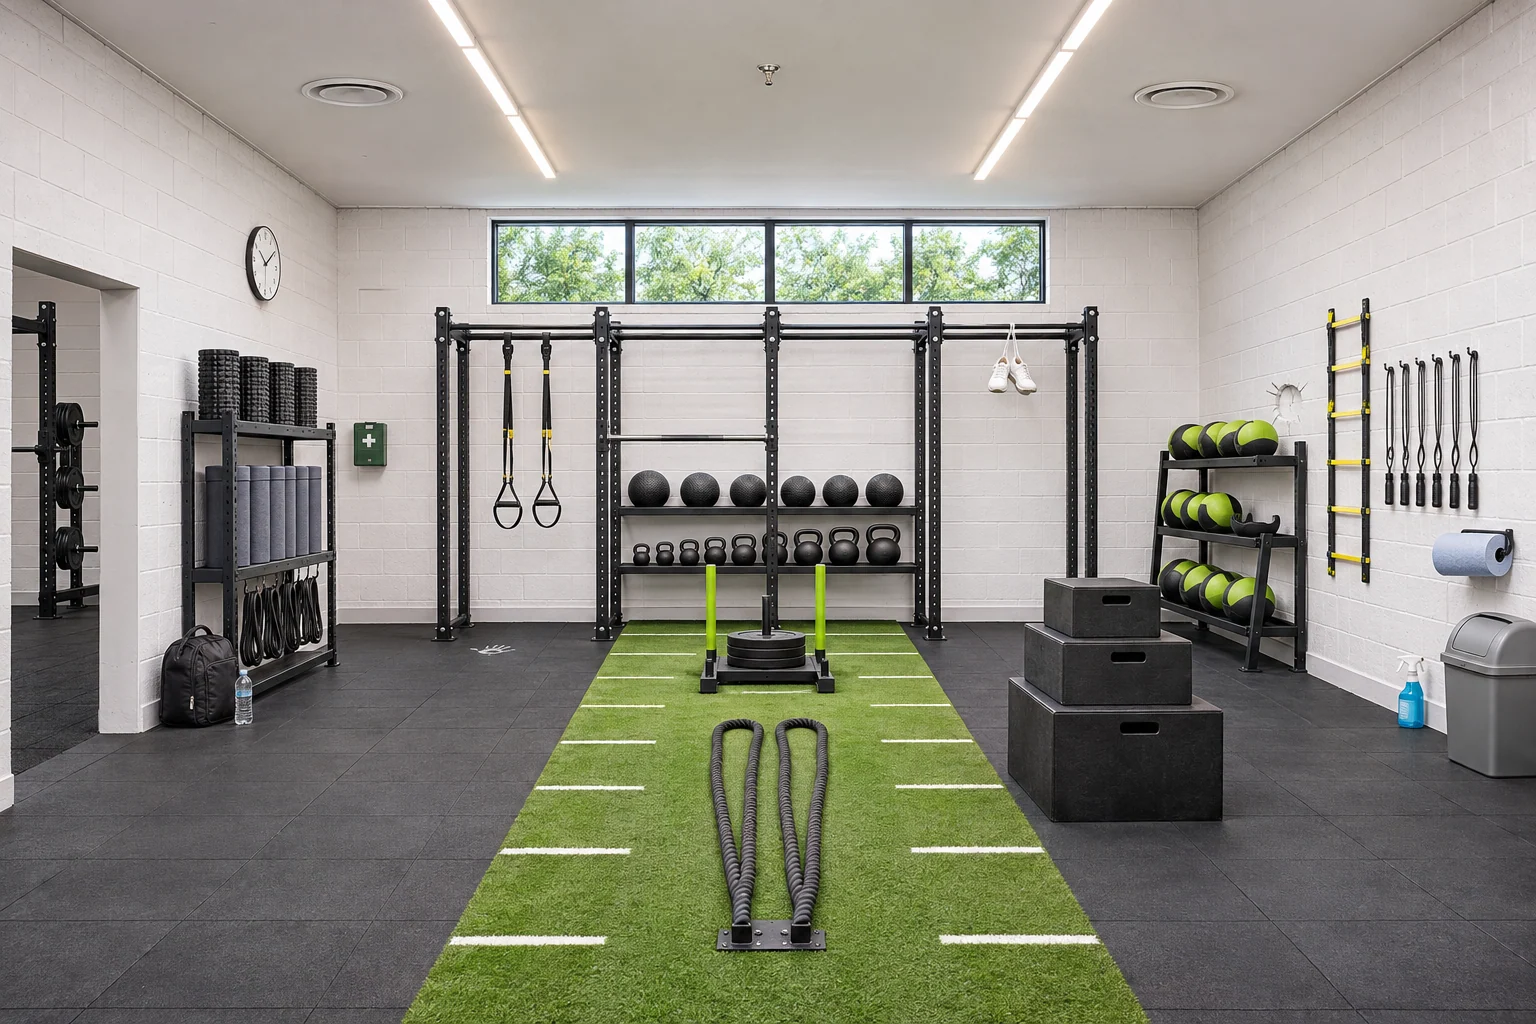
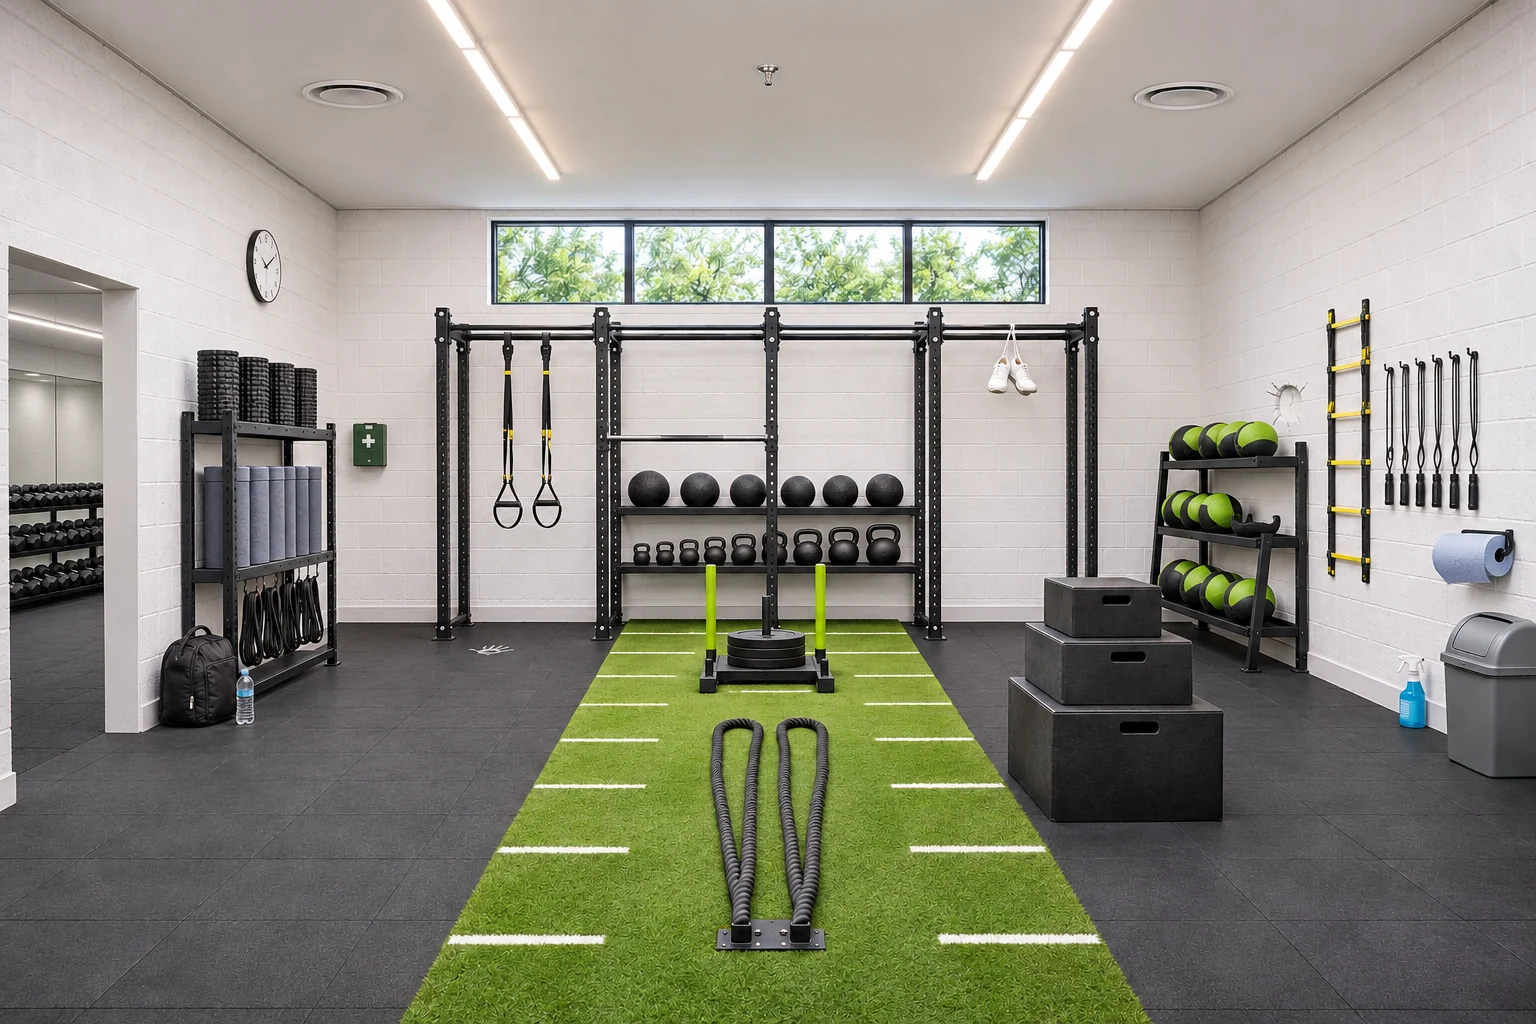
Align what shows through the gym doorways, fix the handprint angle, add a dance pole

diff --git a/gym.html b/gym.html
@@ -451,7 +451,7 @@ body.presenting{overflow:hidden}
 <script src="https://cdn.jsdelivr.net/npm/motion@14.9.0/dist/motion.js" integrity="sha384-mzhnnVPTOvuHjQX0cuFH5wg2l5YcbPcpPqOoHFowMkg6VYQBWwZKGH+EAVZsi6zJ" crossorigin="anonymous"></script>
 <script>
 /* One room or the whole flat: ROOMS is the only difference between them. */
-var ROOMS=[{"title": "The cardio floor", "alt": "The cardio floor of a modern gym in England", "key": "gym_vocab_cardio_v1", "img": "images/gym/the-cardio-floor.webp", "at": [0.5, 0.2], "words": [{"x": 58.6, "y": 46.9, "w": "treadmill"}, {"x": 40.4, "y": 53.2, "w": "running belt"}, {"x": 39.8, "y": 39.6, "w": "console"}, {"x": 36.8, "y": 43.0, "w": "handrail"}, {"x": 44.5, "y": 54.7, "w": "exercise bike"}, {"x": 44.5, "y": 48.8, "w": "handlebars"}, {"x": 46.4, "y": 63.0, "w": "pedal"}, {"x": 50.8, "y": 70.3, "w": "rowing machine"}, {"x": 50.0, "y": 74.4, "w": "seat"}, {"x": 51.6, "y": 68.4, "w": "footplate"}, {"x": 49.6, "y": 67.2, "w": "handle"}, {"x": 50.8, "y": 77.3, "w": "slide rail"}, {"x": 52.1, "y": 63.5, "w": "flywheel"}, {"x": 81.4, "y": 45.9, "w": "cross trainer"}, {"x": 79.1, "y": 55.9, "w": "foot platform"}, {"x": 56.0, "y": 27.1, "w": "screen"}, {"x": 49.6, "y": 26.9, "w": "wall clock"}, {"x": 45.6, "y": 36.1, "w": "window"}, {"x": 3.9, "y": 54.7, "w": "water station", "pos": "right"}, {"x": 10.4, "y": 58.6, "w": "bin"}, {"x": 10.4, "y": 38.1, "w": "towel rail"}, {"x": 11.2, "y": 42.2, "w": "towel"}, {"x": 17.1, "y": 43.5, "w": "hand sanitiser"}, {"x": 18.6, "y": 38.1, "w": "paper towel"}, {"x": 21.9, "y": 38.6, "w": "first aid box"}, {"x": 9.2, "y": 64.0, "w": "spray bottle"}, {"x": 11.7, "y": 65.2, "w": "cloth"}, {"x": 44.9, "y": 50.8, "w": "water bottle"}, {"x": 19.5, "y": 11.7, "w": "strip light"}, {"x": 33.9, "y": 4.4, "w": "air vent", "pos": "below"}, {"x": 49.8, "y": 4.4, "w": "sprinkler head", "pos": "below"}, {"x": 73.6, "y": 4.4, "w": "smoke detector", "pos": "below"}, {"x": 68.4, "y": 78.1, "w": "rubber floor tile"}, {"x": 96.4, "y": 43.9, "w": "mirror", "pos": "left"}, {"x": 69.7, "y": 38.3, "w": "bin bag"}, {"x": 69.8, "y": 40.0, "w": "notice"}, {"x": 28.6, "y": 80.1, "w": "sock"}]}, {"title": "The weights room", "alt": "The weights room of a modern gym in England", "key": "gym_vocab_weights_v1", "img": "images/gym/the-weights-room.webp", "at": [0.17, 0.8], "words": [{"x": 6.5, "y": 39.1, "w": "mirrored wall", "pos": "right"}, {"x": 41.7, "y": 48.0, "w": "barbell"}, {"x": 27.3, "y": 47.9, "w": "bumper plate"}, {"x": 29.4, "y": 54.7, "w": "power rack"}, {"x": 36.5, "y": 30.8, "w": "pull-up bar"}, {"x": 49.5, "y": 57.6, "w": "dumbbell rack"}, {"x": 40.4, "y": 52.7, "w": "dumbbell"}, {"x": 45.6, "y": 39.1, "w": "kettlebell"}, {"x": 57.3, "y": 41.8, "w": "shelf"}, {"x": 28.0, "y": 79.3, "w": "flat bench"}, {"x": 69.7, "y": 78.1, "w": "adjustable bench"}, {"x": 45.6, "y": 68.4, "w": "lifting platform"}, {"x": 28.1, "y": 75.7, "w": "lifting belt"}, {"x": 24.4, "y": 55.2, "w": "chalk bowl"}, {"x": 2.9, "y": 83.0, "w": "foam roller", "pos": "right"}, {"x": 74.9, "y": 54.7, "w": "plate tree"}, {"x": 73.6, "y": 45.9, "w": "weight plate"}, {"x": 84.6, "y": 50.8, "w": "cable machine"}, {"x": 81.4, "y": 46.9, "w": "handle"}, {"x": 84.1, "y": 58.6, "w": "weight stack"}, {"x": 15.1, "y": 58.6, "w": "barbell rack"}, {"x": 95.7, "y": 46.9, "w": "paper towel", "pos": "left"}, {"x": 91.5, "y": 70.3, "w": "spray bottle"}, {"x": 95.7, "y": 68.4, "w": "bin", "pos": "left"}, {"x": 79.4, "y": 64.5, "w": "shaker bottle"}, {"x": 90.8, "y": 43.9, "w": "doorway"}, {"x": 25.3, "y": 27.3, "w": "wall clock"}, {"x": 71.0, "y": 24.4, "w": "window"}, {"x": 26.0, "y": 7.8, "w": "strip light", "pos": "below"}, {"x": 35.5, "y": 9.8, "w": "air vent"}, {"x": 50.1, "y": 2.4, "w": "sprinkler head", "pos": "below"}, {"x": 13.0, "y": 92.8, "w": "rubber floor tile", "pos": "above"}]}, {"title": "The functional area", "alt": "The functional training area of a modern gym in England", "key": "gym_vocab_functional_v1", "img": "images/gym/the-functional-area.webp", "at": [0.5, 0.8], "words": [{"x": 45.6, "y": 34.2, "w": "rig"}, {"x": 56.6, "y": 31.1, "w": "pull-up bar"}, {"x": 33.9, "y": 42.0, "w": "suspension straps"}, {"x": 45.6, "y": 42.2, "w": "barbell"}, {"x": 42.3, "y": 47.9, "w": "slam ball"}, {"x": 45.6, "y": 53.2, "w": "kettlebell"}, {"x": 57.3, "y": 56.4, "w": "storage shelf"}, {"x": 49.8, "y": 64.0, "w": "weight sled"}, {"x": 49.5, "y": 78.1, "w": "battle rope"}, {"x": 49.8, "y": 91.8, "w": "floor anchor", "pos": "above"}, {"x": 39.1, "y": 85.9, "w": "artificial turf"}, {"x": 73.6, "y": 68.4, "w": "plyometric box"}, {"x": 79.1, "y": 52.7, "w": "medicine ball rack"}, {"x": 78.8, "y": 43.0, "w": "medicine ball"}, {"x": 87.6, "y": 43.9, "w": "agility ladder"}, {"x": 92.8, "y": 42.0, "w": "skipping rope", "pos": "left"}, {"x": 96.4, "y": 53.7, "w": "paper towel", "pos": "left"}, {"x": 91.8, "y": 67.4, "w": "spray bottle"}, {"x": 96.4, "y": 69.3, "w": "bin", "pos": "left"}, {"x": 16.8, "y": 37.3, "w": "foam roller"}, {"x": 17.3, "y": 48.8, "w": "exercise mat"}, {"x": 17.4, "y": 59.1, "w": "resistance band"}, {"x": 13.0, "y": 54.7, "w": "storage rack"}, {"x": 12.7, "y": 67.6, "w": "gym bag"}, {"x": 15.7, "y": 67.6, "w": "water bottle"}, {"x": 24.4, "y": 42.5, "w": "first aid box"}, {"x": 17.3, "y": 25.4, "w": "wall clock"}, {"x": 50.1, "y": 24.4, "w": "window"}, {"x": 3.9, "y": 43.9, "w": "doorway", "pos": "right"}, {"x": 33.9, "y": 9.8, "w": "strip light"}, {"x": 22.5, "y": 8.8, "w": "air vent"}, {"x": 49.8, "y": 6.3, "w": "sprinkler head", "pos": "below"}, {"x": 19.5, "y": 83.0, "w": "rubber floor tile"}, {"x": 65.8, "y": 36.6, "w": "trainers"}]}, {"title": "The studio", "alt": "The studio of a modern gym in England", "key": "gym_vocab_studio_v1", "img": "images/gym/the-studio.webp", "at": [0.84, 0.8], "words": [{"x": 7.8, "y": 39.1, "w": "mirrored wall", "pos": "right"}, {"x": 35.8, "y": 52.7, "w": "shelving unit"}, {"x": 24.1, "y": 52.7, "w": "foam roller"}, {"x": 31.2, "y": 47.9, "w": "yoga block"}, {"x": 38.5, "y": 46.9, "w": "bolster"}, {"x": 46.5, "y": 46.9, "w": "resistance band"}, {"x": 58.6, "y": 45.9, "w": "gym ball"}, {"x": 58.6, "y": 63.0, "w": "ball rack"}, {"x": 65.8, "y": 43.9, "w": "window"}, {"x": 65.8, "y": 35.2, "w": "roller blind"}, {"x": 51.8, "y": 31.7, "w": "wall clock"}, {"x": 77.1, "y": 29.8, "w": "speaker"}, {"x": 79.8, "y": 48.8, "w": "door"}, {"x": 78.8, "y": 65.9, "w": "cork block"}, {"x": 91.8, "y": 37.6, "w": "coat hook"}, {"x": 90.5, "y": 43.9, "w": "towel"}, {"x": 97.3, "y": 44.4, "w": "first aid box", "pos": "left"}, {"x": 91.1, "y": 58.6, "w": "bench"}, {"x": 88.5, "y": 72.8, "w": "plimsolls"}, {"x": 97.7, "y": 69.3, "w": "bin", "pos": "left"}, {"x": 28.0, "y": 78.1, "w": "exercise mat"}, {"x": 39.4, "y": 75.7, "w": "folded towel"}, {"x": 48.5, "y": 74.4, "w": "water bottle"}, {"x": 33.9, "y": 3.9, "w": "light panel", "pos": "below"}, {"x": 36.1, "y": 12.2, "w": "air vent"}, {"x": 50.5, "y": 11.2, "w": "smoke detector"}, {"x": 52.1, "y": 87.9, "w": "wooden floor", "pos": "above"}]}];
+var ROOMS=[{"title": "The cardio floor", "alt": "The cardio floor of a modern gym in England", "key": "gym_vocab_cardio_v1", "img": "images/gym/the-cardio-floor.webp", "at": [0.5, 0.2], "words": [{"x": 58.6, "y": 46.9, "w": "treadmill"}, {"x": 40.4, "y": 53.2, "w": "running belt"}, {"x": 39.8, "y": 39.6, "w": "console"}, {"x": 36.8, "y": 43.0, "w": "handrail"}, {"x": 44.5, "y": 54.7, "w": "exercise bike"}, {"x": 44.5, "y": 48.8, "w": "handlebars"}, {"x": 46.4, "y": 63.0, "w": "pedal"}, {"x": 50.8, "y": 70.3, "w": "rowing machine"}, {"x": 50.0, "y": 74.4, "w": "seat"}, {"x": 51.6, "y": 68.4, "w": "footplate"}, {"x": 49.6, "y": 67.2, "w": "handle"}, {"x": 50.8, "y": 77.3, "w": "slide rail"}, {"x": 52.1, "y": 63.5, "w": "flywheel"}, {"x": 81.4, "y": 45.9, "w": "cross trainer"}, {"x": 79.1, "y": 55.9, "w": "foot platform"}, {"x": 56.0, "y": 27.1, "w": "screen"}, {"x": 49.6, "y": 26.9, "w": "wall clock"}, {"x": 45.6, "y": 36.1, "w": "window"}, {"x": 3.9, "y": 54.7, "w": "water station", "pos": "right"}, {"x": 10.4, "y": 58.6, "w": "bin"}, {"x": 10.4, "y": 38.1, "w": "towel rail"}, {"x": 11.2, "y": 42.2, "w": "towel"}, {"x": 17.1, "y": 43.5, "w": "hand sanitiser"}, {"x": 18.6, "y": 38.1, "w": "paper towel"}, {"x": 21.9, "y": 38.6, "w": "first aid box"}, {"x": 9.2, "y": 64.0, "w": "spray bottle"}, {"x": 11.7, "y": 65.2, "w": "cloth"}, {"x": 44.9, "y": 50.8, "w": "water bottle"}, {"x": 19.5, "y": 11.7, "w": "strip light"}, {"x": 33.9, "y": 4.4, "w": "air vent", "pos": "below"}, {"x": 49.8, "y": 4.4, "w": "sprinkler head", "pos": "below"}, {"x": 73.6, "y": 4.4, "w": "smoke detector", "pos": "below"}, {"x": 68.4, "y": 78.1, "w": "rubber floor tile"}, {"x": 96.4, "y": 43.9, "w": "mirror", "pos": "left"}, {"x": 69.7, "y": 38.3, "w": "bin bag"}, {"x": 69.8, "y": 40.0, "w": "notice"}, {"x": 28.6, "y": 80.1, "w": "sock"}]}, {"title": "The weights room", "alt": "The weights room of a modern gym in England", "key": "gym_vocab_weights_v1", "img": "images/gym/the-weights-room.webp", "at": [0.17, 0.8], "words": [{"x": 6.5, "y": 39.1, "w": "mirrored wall", "pos": "right"}, {"x": 41.7, "y": 48.0, "w": "barbell"}, {"x": 27.3, "y": 47.9, "w": "bumper plate"}, {"x": 29.4, "y": 54.7, "w": "power rack"}, {"x": 36.5, "y": 30.8, "w": "pull-up bar"}, {"x": 49.5, "y": 57.6, "w": "dumbbell rack"}, {"x": 40.4, "y": 52.7, "w": "dumbbell"}, {"x": 45.6, "y": 39.1, "w": "kettlebell"}, {"x": 57.3, "y": 41.8, "w": "shelf"}, {"x": 28.0, "y": 79.3, "w": "flat bench"}, {"x": 69.7, "y": 78.1, "w": "adjustable bench"}, {"x": 45.6, "y": 68.4, "w": "lifting platform"}, {"x": 28.1, "y": 75.7, "w": "lifting belt"}, {"x": 24.4, "y": 55.2, "w": "chalk bowl"}, {"x": 2.9, "y": 83.0, "w": "foam roller", "pos": "right"}, {"x": 74.9, "y": 54.7, "w": "plate tree"}, {"x": 73.6, "y": 45.9, "w": "weight plate"}, {"x": 84.6, "y": 50.8, "w": "cable machine"}, {"x": 81.4, "y": 46.9, "w": "handle"}, {"x": 84.1, "y": 58.6, "w": "weight stack"}, {"x": 15.1, "y": 58.6, "w": "barbell rack"}, {"x": 95.7, "y": 46.9, "w": "paper towel", "pos": "left"}, {"x": 91.5, "y": 70.3, "w": "spray bottle"}, {"x": 95.7, "y": 68.4, "w": "bin", "pos": "left"}, {"x": 79.4, "y": 64.5, "w": "shaker bottle"}, {"x": 90.8, "y": 43.9, "w": "doorway"}, {"x": 25.3, "y": 27.3, "w": "wall clock"}, {"x": 71.0, "y": 24.4, "w": "window"}, {"x": 26.0, "y": 7.8, "w": "strip light", "pos": "below"}, {"x": 35.5, "y": 9.8, "w": "air vent"}, {"x": 50.1, "y": 2.4, "w": "sprinkler head", "pos": "below"}, {"x": 13.0, "y": 92.8, "w": "rubber floor tile", "pos": "above"}]}, {"title": "The functional area", "alt": "The functional training area of a modern gym in England", "key": "gym_vocab_functional_v1", "img": "images/gym/the-functional-area.webp", "at": [0.5, 0.8], "words": [{"x": 45.6, "y": 34.2, "w": "rig"}, {"x": 56.6, "y": 31.1, "w": "pull-up bar"}, {"x": 33.9, "y": 42.0, "w": "suspension straps"}, {"x": 45.6, "y": 42.2, "w": "barbell"}, {"x": 42.3, "y": 47.9, "w": "slam ball"}, {"x": 45.6, "y": 53.2, "w": "kettlebell"}, {"x": 57.3, "y": 56.4, "w": "storage shelf"}, {"x": 49.8, "y": 64.0, "w": "weight sled"}, {"x": 49.5, "y": 78.1, "w": "battle rope"}, {"x": 49.8, "y": 91.8, "w": "floor anchor", "pos": "above"}, {"x": 39.1, "y": 85.9, "w": "artificial turf"}, {"x": 73.6, "y": 68.4, "w": "plyometric box"}, {"x": 79.1, "y": 52.7, "w": "medicine ball rack"}, {"x": 78.8, "y": 43.0, "w": "medicine ball"}, {"x": 87.6, "y": 43.9, "w": "agility ladder"}, {"x": 92.8, "y": 42.0, "w": "skipping rope", "pos": "left"}, {"x": 96.4, "y": 53.7, "w": "paper towel", "pos": "left"}, {"x": 91.8, "y": 67.4, "w": "spray bottle"}, {"x": 96.4, "y": 69.3, "w": "bin", "pos": "left"}, {"x": 16.8, "y": 37.3, "w": "foam roller"}, {"x": 17.3, "y": 48.8, "w": "exercise mat"}, {"x": 17.4, "y": 59.1, "w": "resistance band"}, {"x": 13.0, "y": 54.7, "w": "storage rack"}, {"x": 12.7, "y": 67.6, "w": "gym bag"}, {"x": 15.7, "y": 67.6, "w": "water bottle"}, {"x": 24.4, "y": 42.5, "w": "first aid box"}, {"x": 17.3, "y": 25.4, "w": "wall clock"}, {"x": 50.1, "y": 24.4, "w": "window"}, {"x": 3.9, "y": 43.9, "w": "doorway", "pos": "right"}, {"x": 33.9, "y": 9.8, "w": "strip light"}, {"x": 22.5, "y": 8.8, "w": "air vent"}, {"x": 49.8, "y": 6.3, "w": "sprinkler head", "pos": "below"}, {"x": 19.5, "y": 83.0, "w": "rubber floor tile"}, {"x": 65.8, "y": 36.6, "w": "trainers"}]}, {"title": "The studio", "alt": "The studio of a modern gym in England", "key": "gym_vocab_studio_v1", "img": "images/gym/the-studio.webp", "at": [0.84, 0.8], "words": [{"x": 7.8, "y": 39.1, "w": "mirrored wall", "pos": "right"}, {"x": 35.8, "y": 52.7, "w": "shelving unit"}, {"x": 24.1, "y": 52.7, "w": "foam roller"}, {"x": 31.2, "y": 47.9, "w": "yoga block"}, {"x": 38.5, "y": 46.9, "w": "bolster"}, {"x": 46.5, "y": 46.9, "w": "resistance band"}, {"x": 58.6, "y": 45.9, "w": "gym ball"}, {"x": 58.6, "y": 63.0, "w": "ball rack"}, {"x": 70.8, "y": 45.6, "w": "dance pole"}, {"x": 65.8, "y": 43.9, "w": "window"}, {"x": 65.8, "y": 35.2, "w": "roller blind"}, {"x": 51.8, "y": 31.7, "w": "wall clock"}, {"x": 77.1, "y": 29.8, "w": "speaker"}, {"x": 79.8, "y": 48.8, "w": "door"}, {"x": 78.8, "y": 65.9, "w": "cork block"}, {"x": 91.8, "y": 37.6, "w": "coat hook"}, {"x": 90.5, "y": 43.9, "w": "towel"}, {"x": 97.3, "y": 44.4, "w": "first aid box", "pos": "left"}, {"x": 91.1, "y": 58.6, "w": "bench"}, {"x": 88.5, "y": 72.8, "w": "plimsolls"}, {"x": 97.7, "y": 69.3, "w": "bin", "pos": "left"}, {"x": 28.0, "y": 78.1, "w": "exercise mat"}, {"x": 39.4, "y": 75.7, "w": "folded towel"}, {"x": 48.5, "y": 74.4, "w": "water bottle"}, {"x": 33.9, "y": 3.9, "w": "light panel", "pos": "below"}, {"x": 36.1, "y": 12.2, "w": "air vent"}, {"x": 50.5, "y": 11.2, "w": "smoke detector"}, {"x": 52.1, "y": 87.9, "w": "wooden floor", "pos": "above"}]}];
 var ri=0, KEY='';
 /* How every word is said. Kept by the word rather than by the room, because a
    cushion is a cushion in all seven, and kept apart from the hotspots so a list
@@ -459,7 +459,7 @@ var ri=0, KEY='';
    [British, every r sounded], and where the two are the same only one is kept.
    It sits below ROOMS, never between ROOMS and the line after it: that pair of
    lines is the anchor the builders use to read the words back out of a page. */
-var IPA={"adjustable bench": ["əˈdʒʌstəbl bentʃ"], "agility ladder": ["əˈdʒɪləti ˈlædə", "əˈdʒɪləti ˈlædər"], "air vent": ["ˈeə vent", "ˈer vent"], "artificial turf": ["ˌɑːtɪˈfɪʃl tɜːf", "ˌɑːrtɪˈfɪʃl tɜːrf"], "ball rack": ["ˈbɔːl ræk"], "barbell": ["ˈbɑːbel", "ˈbɑːrbel"], "barbell rack": ["ˈbɑːbel ræk", "ˈbɑːrbel ræk"], "battle rope": ["ˈbætl rəʊp"], "bench": ["bentʃ"], "bin": ["bɪn"], "bin bag": ["ˈbɪn bæɡ"], "bolster": ["ˈbəʊlstə", "ˈbəʊlstər"], "bumper plate": ["ˈbʌmpə pleɪt", "ˈbʌmpər pleɪt"], "cable machine": ["ˈkeɪbl məˌʃiːn"], "chalk bowl": ["ˈtʃɔːk bəʊl"], "cloth": ["klɒθ"], "coat hook": ["ˈkəʊt hʊk"], "console": ["ˈkɒnsəʊl"], "cork block": ["ˈkɔːk blɒk", "ˈkɔːrk blɒk"], "cross trainer": ["ˈkrɒs ˌtreɪnə", "ˈkrɒs ˌtreɪnər"], "door": ["dɔː", "dɔːr"], "doorway": ["ˈdɔːweɪ", "ˈdɔːrweɪ"], "dumbbell": ["ˈdʌmbel"], "dumbbell rack": ["ˈdʌmbel ræk"], "exercise bike": ["ˈeksəsaɪz baɪk", "ˈeksərsaɪz baɪk"], "exercise mat": ["ˈeksəsaɪz mæt", "ˈeksərsaɪz mæt"], "first aid box": ["ˌfɜːst ˈeɪd bɒks", "ˌfɜːrst ˈeɪd bɒks"], "flat bench": ["ˈflæt bentʃ"], "floor anchor": ["ˈflɔː ˈæŋkə", "ˈflɔːr ˈæŋkər"], "flywheel": ["ˈflaɪwiːl"], "foam roller": ["ˈfəʊm ˈrəʊlə", "ˈfəʊm ˈrəʊlər"], "folded towel": ["ˈfəʊldɪd ˈtaʊəl"], "foot platform": ["ˈfʊt ˈplætfɔːm", "ˈfʊt ˈplætfɔːrm"], "footplate": ["ˈfʊtpleɪt"], "gym bag": ["ˈdʒɪm bæɡ"], "gym ball": ["ˈdʒɪm bɔːl"], "hand sanitiser": ["ˈhænd ˈsænɪtaɪzə", "ˈhænd ˈsænɪtaɪzər"], "handle": ["ˈhændl"], "handlebars": ["ˈhændlbɑːz", "ˈhændlbɑːrz"], "handrail": ["ˈhændreɪl"], "kettlebell": ["ˈketlbel"], "lifting belt": ["ˈlɪftɪŋ belt"], "lifting platform": ["ˈlɪftɪŋ ˈplætfɔːm", "ˈlɪftɪŋ ˈplætfɔːrm"], "light panel": ["ˈlaɪt ˈpænl"], "medicine ball": ["ˈmedsn bɔːl"], "medicine ball rack": ["ˈmedsn bɔːl ræk"], "mirror": ["ˈmɪrə", "ˈmɪrər"], "mirrored wall": ["ˈmɪəd wɔːl", "ˈmɪrərd wɔːl"], "notice": ["ˈnəʊtɪs"], "paper towel": ["ˈpeɪpə ˈtaʊəl", "ˈpeɪpər ˈtaʊəl"], "pedal": ["ˈpedl"], "plate tree": ["ˈpleɪt triː"], "plimsolls": ["ˈplɪmsəlz"], "plyometric box": ["ˌplaɪəˈmetrɪk bɒks"], "power rack": ["ˈpaʊə ræk", "ˈpaʊər ræk"], "pull-up bar": ["ˈpʊl ʌp bɑː", "ˈpʊl ʌp bɑːr"], "resistance band": ["rɪˈzɪstəns bænd"], "rig": ["rɪɡ"], "roller blind": ["ˈrəʊlə blaɪnd", "ˈrəʊlər blaɪnd"], "rowing machine": ["ˈrəʊɪŋ məˌʃiːn"], "rubber floor tile": ["ˈrʌbə flɔː taɪl", "ˈrʌbər flɔːr taɪl"], "running belt": ["ˈrʌnɪŋ belt"], "screen": ["skriːn"], "seat": ["siːt"], "shaker bottle": ["ˈʃeɪkə ˈbɒtl", "ˈʃeɪkər ˈbɒtl"], "shelf": ["ʃelf"], "shelving unit": ["ˈʃelvɪŋ ˈjuːnɪt"], "skipping rope": ["ˈskɪpɪŋ rəʊp"], "slam ball": ["ˈslæm bɔːl"], "slide rail": ["ˈslaɪd reɪl"], "smoke detector": ["ˈsməʊk dɪˈtektə", "ˈsməʊk dɪˈtektər"], "sock": ["sɒk"], "speaker": ["ˈspiːkə", "ˈspiːkər"], "spray bottle": ["ˈspreɪ ˈbɒtl"], "sprinkler head": ["ˈsprɪŋklə hed", "ˈsprɪŋklər hed"], "storage rack": ["ˈstɔːrɪdʒ ræk"], "storage shelf": ["ˈstɔːrɪdʒ ʃelf"], "strip light": ["ˈstrɪp laɪt"], "suspension straps": ["səˈspenʃn stræps"], "towel": ["ˈtaʊəl"], "towel rail": ["ˈtaʊəl reɪl"], "trainers": ["ˈtreɪnəz", "ˈtreɪnərz"], "treadmill": ["ˈtredmɪl"], "wall clock": ["ˈwɔːl klɒk"], "water bottle": ["ˈwɔːtə ˈbɒtl", "ˈwɔːtər ˈbɒtl"], "water station": ["ˈwɔːtə ˈsteɪʃn", "ˈwɔːtər ˈsteɪʃn"], "weight plate": ["ˈweɪt pleɪt"], "weight sled": ["ˈweɪt sled"], "weight stack": ["ˈweɪt stæk"], "window": ["ˈwɪndəʊ"], "wooden floor": ["ˈwʊdn flɔː", "ˈwʊdn flɔːr"], "yoga block": ["ˈjəʊɡə blɒk"]};
+var IPA={"adjustable bench": ["əˈdʒʌstəbl bentʃ"], "agility ladder": ["əˈdʒɪləti ˈlædə", "əˈdʒɪləti ˈlædər"], "air vent": ["ˈeə vent", "ˈer vent"], "artificial turf": ["ˌɑːtɪˈfɪʃl tɜːf", "ˌɑːrtɪˈfɪʃl tɜːrf"], "ball rack": ["ˈbɔːl ræk"], "barbell": ["ˈbɑːbel", "ˈbɑːrbel"], "barbell rack": ["ˈbɑːbel ræk", "ˈbɑːrbel ræk"], "battle rope": ["ˈbætl rəʊp"], "bench": ["bentʃ"], "bin": ["bɪn"], "bin bag": ["ˈbɪn bæɡ"], "bolster": ["ˈbəʊlstə", "ˈbəʊlstər"], "bumper plate": ["ˈbʌmpə pleɪt", "ˈbʌmpər pleɪt"], "cable machine": ["ˈkeɪbl məˌʃiːn"], "chalk bowl": ["ˈtʃɔːk bəʊl"], "cloth": ["klɒθ"], "coat hook": ["ˈkəʊt hʊk"], "console": ["ˈkɒnsəʊl"], "cork block": ["ˈkɔːk blɒk", "ˈkɔːrk blɒk"], "cross trainer": ["ˈkrɒs ˌtreɪnə", "ˈkrɒs ˌtreɪnər"], "dance pole": ["ˈdɑːns pəʊl", "ˈdæns pəʊl"], "door": ["dɔː", "dɔːr"], "doorway": ["ˈdɔːweɪ", "ˈdɔːrweɪ"], "dumbbell": ["ˈdʌmbel"], "dumbbell rack": ["ˈdʌmbel ræk"], "exercise bike": ["ˈeksəsaɪz baɪk", "ˈeksərsaɪz baɪk"], "exercise mat": ["ˈeksəsaɪz mæt", "ˈeksərsaɪz mæt"], "first aid box": ["ˌfɜːst ˈeɪd bɒks", "ˌfɜːrst ˈeɪd bɒks"], "flat bench": ["ˈflæt bentʃ"], "floor anchor": ["ˈflɔː ˈæŋkə", "ˈflɔːr ˈæŋkər"], "flywheel": ["ˈflaɪwiːl"], "foam roller": ["ˈfəʊm ˈrəʊlə", "ˈfəʊm ˈrəʊlər"], "folded towel": ["ˈfəʊldɪd ˈtaʊəl"], "foot platform": ["ˈfʊt ˈplætfɔːm", "ˈfʊt ˈplætfɔːrm"], "footplate": ["ˈfʊtpleɪt"], "gym bag": ["ˈdʒɪm bæɡ"], "gym ball": ["ˈdʒɪm bɔːl"], "hand sanitiser": ["ˈhænd ˈsænɪtaɪzə", "ˈhænd ˈsænɪtaɪzər"], "handle": ["ˈhændl"], "handlebars": ["ˈhændlbɑːz", "ˈhændlbɑːrz"], "handrail": ["ˈhændreɪl"], "kettlebell": ["ˈketlbel"], "lifting belt": ["ˈlɪftɪŋ belt"], "lifting platform": ["ˈlɪftɪŋ ˈplætfɔːm", "ˈlɪftɪŋ ˈplætfɔːrm"], "light panel": ["ˈlaɪt ˈpænl"], "medicine ball": ["ˈmedsn bɔːl"], "medicine ball rack": ["ˈmedsn bɔːl ræk"], "mirror": ["ˈmɪrə", "ˈmɪrər"], "mirrored wall": ["ˈmɪəd wɔːl", "ˈmɪrərd wɔːl"], "notice": ["ˈnəʊtɪs"], "paper towel": ["ˈpeɪpə ˈtaʊəl", "ˈpeɪpər ˈtaʊəl"], "pedal": ["ˈpedl"], "plate tree": ["ˈpleɪt triː"], "plimsolls": ["ˈplɪmsəlz"], "plyometric box": ["ˌplaɪəˈmetrɪk bɒks"], "power rack": ["ˈpaʊə ræk", "ˈpaʊər ræk"], "pull-up bar": ["ˈpʊl ʌp bɑː", "ˈpʊl ʌp bɑːr"], "resistance band": ["rɪˈzɪstəns bænd"], "rig": ["rɪɡ"], "roller blind": ["ˈrəʊlə blaɪnd", "ˈrəʊlər blaɪnd"], "rowing machine": ["ˈrəʊɪŋ məˌʃiːn"], "rubber floor tile": ["ˈrʌbə flɔː taɪl", "ˈrʌbər flɔːr taɪl"], "running belt": ["ˈrʌnɪŋ belt"], "screen": ["skriːn"], "seat": ["siːt"], "shaker bottle": ["ˈʃeɪkə ˈbɒtl", "ˈʃeɪkər ˈbɒtl"], "shelf": ["ʃelf"], "shelving unit": ["ˈʃelvɪŋ ˈjuːnɪt"], "skipping rope": ["ˈskɪpɪŋ rəʊp"], "slam ball": ["ˈslæm bɔːl"], "slide rail": ["ˈslaɪd reɪl"], "smoke detector": ["ˈsməʊk dɪˈtektə", "ˈsməʊk dɪˈtektər"], "sock": ["sɒk"], "speaker": ["ˈspiːkə", "ˈspiːkər"], "spray bottle": ["ˈspreɪ ˈbɒtl"], "sprinkler head": ["ˈsprɪŋklə hed", "ˈsprɪŋklər hed"], "storage rack": ["ˈstɔːrɪdʒ ræk"], "storage shelf": ["ˈstɔːrɪdʒ ʃelf"], "strip light": ["ˈstrɪp laɪt"], "suspension straps": ["səˈspenʃn stræps"], "towel": ["ˈtaʊəl"], "towel rail": ["ˈtaʊəl reɪl"], "trainers": ["ˈtreɪnəz", "ˈtreɪnərz"], "treadmill": ["ˈtredmɪl"], "wall clock": ["ˈwɔːl klɒk"], "water bottle": ["ˈwɔːtə ˈbɒtl", "ˈwɔːtər ˈbɒtl"], "water station": ["ˈwɔːtə ˈsteɪʃn", "ˈwɔːtər ˈsteɪʃn"], "weight plate": ["ˈweɪt pleɪt"], "weight sled": ["ˈweɪt sled"], "weight stack": ["ˈweɪt stæk"], "window": ["ˈwɪndəʊ"], "wooden floor": ["ˈwʊdn flɔː", "ˈwʊdn flɔːr"], "yoga block": ["ˈjəʊɡə blɒk"]};
 var stage=document.getElementById('stage'), task=document.getElementById('task'), countEl=document.getElementById('count'),
     sub=document.getElementById('sub'), foot=document.getElementById('foot'), photo=document.getElementById('photo'),
     strip=document.getElementById('roomstrip');
